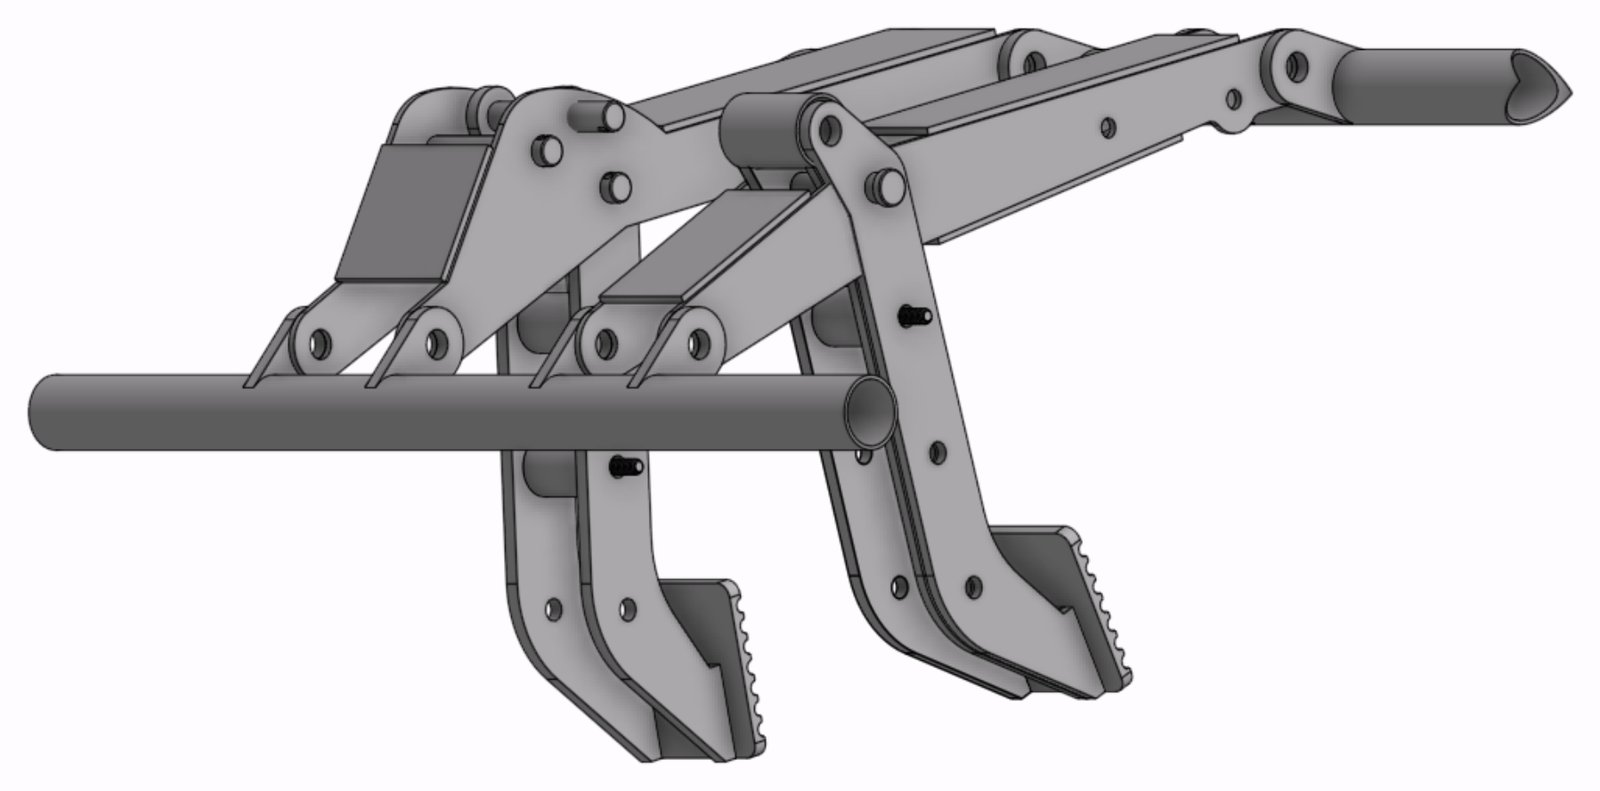
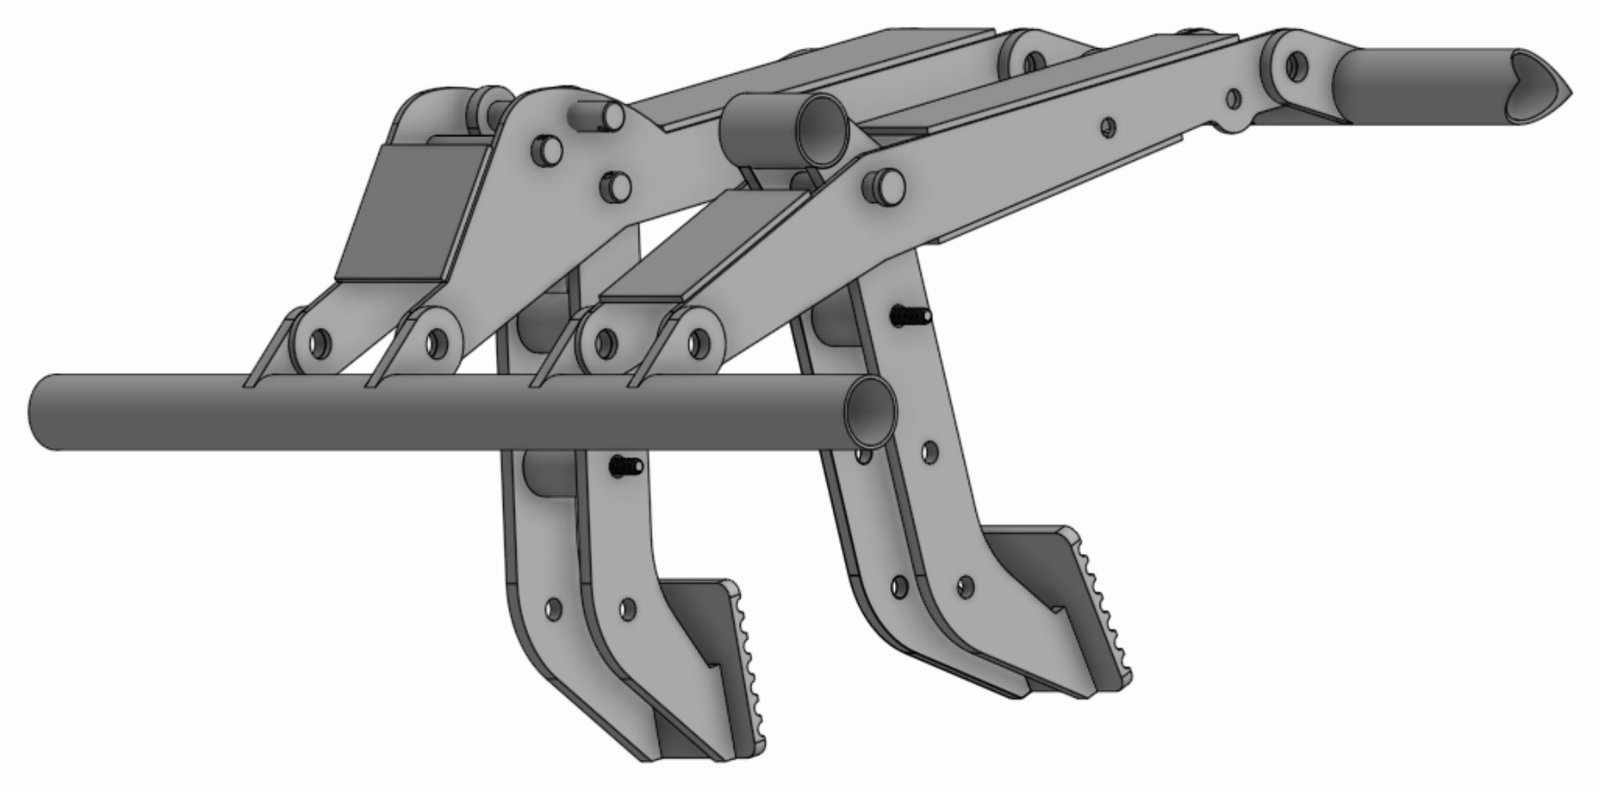
small suspension and pie animatronic updates

diff --git a/pages/baja-suspension.html b/pages/baja-suspension.html
@@ -99,8 +99,8 @@
           I redesigned the throttle and brake pedal assembly to be much lighter, top-mounted, and attached to the
           chassis with tabs, so the whole assembly can easily be removed and repaired. The assembly is all
           <strong>steel</strong>, since it's welded to the chassis. The old assembly weighed about 31.35 lb, and my
-          goal was to stay below about 18 lb while getting the factor of safety above 2 everywhere.
-          [TODO: final weight of the pedal assembly, if you know it.]
+          goal was to stay below about 18 lb while getting the factor of safety above 2 everywhere. The final
+          assembly weighs 17.26 lb, about 45% less than the old one.
         </p>
 
         <figure>
@@ -231,7 +231,7 @@
         </p>
         <ul>
           <li>46th overall and 25th in the maneuverability event at the 2026 Ohio competition</li>
-          <li>Pedal assembly redesigned to be top-mounted and removable, from a 31.35 lb old assembly</li>
+          <li>Pedal assembly redesigned to be top-mounted and removable, from 31.35 lb to 17.26 lb (about 45% lighter)</li>
           <li>CVT model predicts a 132 °C belt peak; a 4-inch intake duct lowers it to about 107 °C</li>
         </ul>
 

diff --git a/pages/animatronic-flying-pig.html b/pages/animatronic-flying-pig.html
@@ -103,10 +103,6 @@
           <figcaption>System block diagram (left) and microphone readings with the motors running (right)</figcaption>
         </figure>
 
-        <figure>
-          <img src="../assets/images/animatronic-flying-pig/flowchart.jpg" alt="Flowchart of the main control loop, wing action, flapping and distance functions" loading="lazy">
-          <figcaption>Flowchart of the control code</figcaption>
-        </figure>
 
         <h3>Challenges</h3>
         <ul>
